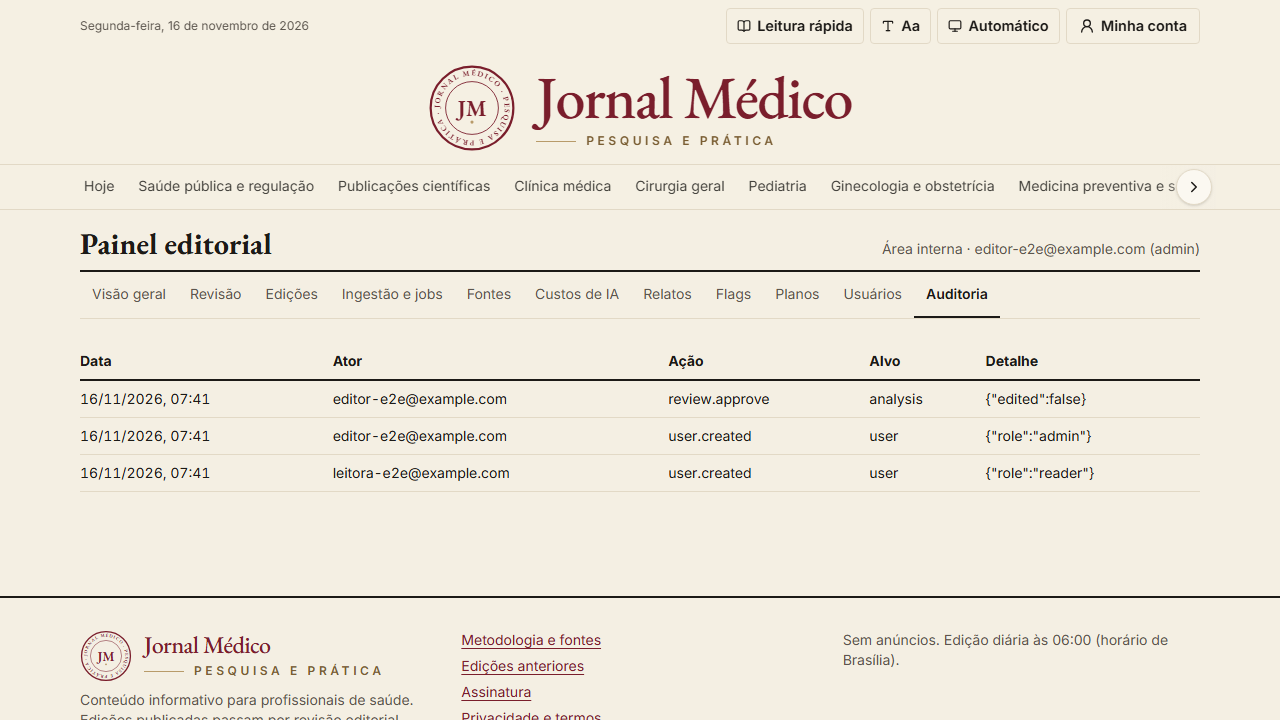
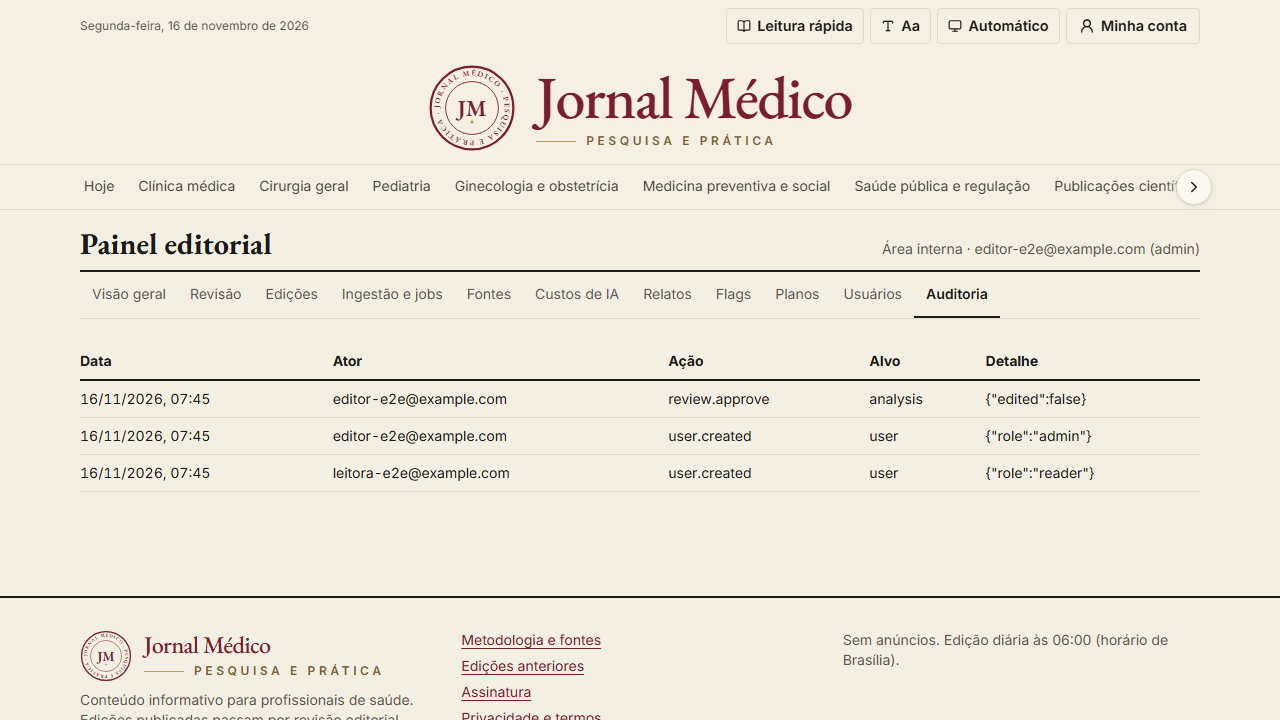
Capa: nota A1 primeiro e em destaque, sem selo 'IA · não revisado' nos cards; abas de regulação e publicações antes de Edições
O aviso de análise automática não revisada continua no banner da capa e na página do artigo.

Changed region(s): [[0.0938, 0.2444, 0.9375, 0.275]]

diff --git a/apps/web/src/components/ui.tsx b/apps/web/src/components/ui.tsx
@@ -65,14 +65,15 @@ export function DemoBanner() {
 
 export function StatusChips({ a }: { a: Pick<ArticleCard, 'isDemo' | 'reviewStatus' | 'retractionStatus'> & Partial<Pick<ArticleCard, 'evidence' | 'journalQualis'>> & { accessStatus?: string } }) {
   return (
-    <span className="inline-flex flex-wrap gap-1.5">
-      {a.isDemo && <span className="chip chip-demo">Fictício · demonstração</span>}
+    <span className="inline-flex flex-wrap items-center gap-1.5">
+      {/* A nota do estudo vem primeiro e em destaque (pedido do Matheus, 2026-11-16). O aviso de que a análise é
+          automática e ainda não revisada fica no banner da capa (PreviewBanner), não em cada card. */}
+      {a.evidence && <EvidenceChips a={{ evidence: a.evidence, journalQualis: a.journalQualis ?? null }} />}
       {a.retractionStatus === 'retracted' && <span className="chip chip-danger"><AlertTriangle size={12} aria-hidden /> Retratado</span>}
+      {a.isDemo && <span className="chip chip-demo">Fictício · demonstração</span>}
       {a.reviewStatus === 'corrected' && <span className="chip chip-demo">Corrigido</span>}
       {a.reviewStatus === 'reviewed' && <span className="chip chip-ok">Revisado por editor</span>}
-      {a.reviewStatus === 'ai_unreviewed' && <span className="chip chip-demo">IA · não revisado por editor</span>}
       {a.accessStatus === 'abstract_only' && <span className="chip">Baseado no abstract</span>}
-      {a.evidence && <EvidenceChips a={{ evidence: a.evidence, journalQualis: a.journalQualis ?? null }} />}
     </span>
   );
 }
@@ -98,8 +99,10 @@ export function EvidenceChips({ a }: { a: Pick<ArticleCard, 'evidence' | 'journa
   const t = tierOf(a.evidence.grade);
   return (
     <>
-      <span className={`chip chip-grade-${t}`} title={a.evidence.reasons.join(' · ')}>
-        <span className="sr-only">Força da evidência do estudo: </span>Classificação automática {a.evidence.grade}<span className="sr-only"> ({TIER_LABEL[t]})</span>
+      <span className={`grade-badge grade-badge-${t}`} title={`Classificação automática do jornal: ${a.evidence.reasons.join(' · ')}`}>
+        <span className="sr-only">Força da evidência do estudo (classificação automática): </span>
+        <strong className="grade-badge-grade">{a.evidence.grade}</strong>
+        <span className="grade-badge-label">{TIER_LABEL[t].replace(/^e/, 'E')}</span>
       </span>
       {a.journalQualis && (
         <span className="chip" title={`Qualis CAPES ${a.journalQualis.cycle} da revista. Classifica a revista, não o estudo.`}>

diff --git a/apps/web/src/styles/app.css b/apps/web/src/styles/app.css
@@ -142,6 +142,15 @@ h1, h2, h3 { scroll-margin-top: 13rem; }
 .article-jump a { display: inline-flex; align-items: center; min-height: 44px; color: var(--color-primary); text-decoration: underline; text-underline-offset: 4px; font-size: .875rem; }
 .chip { white-space: normal; line-height: 1.4; }
 .chip-grade-A { color: var(--color-primary); background: var(--color-primary-soft); }
+/* Nota do estudo (A1…C3): primeiro selo do card e o mais visível. A = cheio na cor da marca. */
+.grade-badge { display: inline-flex; align-items: center; gap: 0.45rem; min-height: 2rem; padding: 0.2rem 0.75rem 0.2rem 0.3rem; border-radius: 999px; border: 2px solid var(--color-line); font-size: 0.8rem; font-weight: 600; line-height: 1; }
+.grade-badge-grade { display: inline-grid; place-items: center; min-width: 1.75rem; height: 1.6rem; padding: 0 0.35rem; border-radius: 999px; font-size: 0.95rem; font-weight: 800; letter-spacing: 0.02em; }
+.grade-badge-A { border-color: var(--color-primary); background: var(--color-primary); color: var(--color-paper); }
+.grade-badge-A .grade-badge-grade { background: var(--color-paper); color: var(--color-primary); }
+.grade-badge-B { border-color: var(--color-accent); color: var(--color-accent); }
+.grade-badge-B .grade-badge-grade { background: var(--color-accent); color: var(--color-paper); }
+.grade-badge-C { color: var(--color-muted); }
+.grade-badge-C .grade-badge-grade { background: var(--color-line); color: var(--color-ink); }
 @media (max-width: 639px) {
   h1, h2, h3 { scroll-margin-top: 12rem; }
   .masthead-date { display: none; }

diff --git a/apps/web/src/components/Layout.tsx b/apps/web/src/components/Layout.tsx
@@ -106,14 +106,15 @@ function AreaNav() {
     <nav aria-label="Seções" className="border-t border-line">
       <div className="mx-auto max-w-6xl"><ScrollRow className="flex justify-center-safe px-2" label="seções">
         <NavLink to="/jornal" className={cls} end>Hoje</NavLink>
-        <NavLink to="/regulacao" className={cls}>Saúde pública e regulação</NavLink>
-        <NavLink to="/publicacoes" className={cls}>Publicações científicas</NavLink>
         {areas.map((a) => (
           <NavLink key={a.slug} to={`/areas/${a.slug}`} className={cls}>
             {a.label}
             {!a.enabled && <span className="ml-1.5 text-[0.65rem] text-muted">em preparação</span>}
           </NavLink>
         ))}
+        {/* Áreas médicas primeiro; regulação e publicações logo antes de Edições (pedido do Matheus, 2026-11-16). */}
+        <NavLink to="/regulacao" className={cls}>Saúde pública e regulação</NavLink>
+        <NavLink to="/publicacoes" className={cls}>Publicações científicas</NavLink>
         <NavLink to="/edicoes" className={cls}>Edições</NavLink>
         <NavLink to="/mais-lidos" className={cls}>Mais lidos</NavLink>
       </ScrollRow></div>
